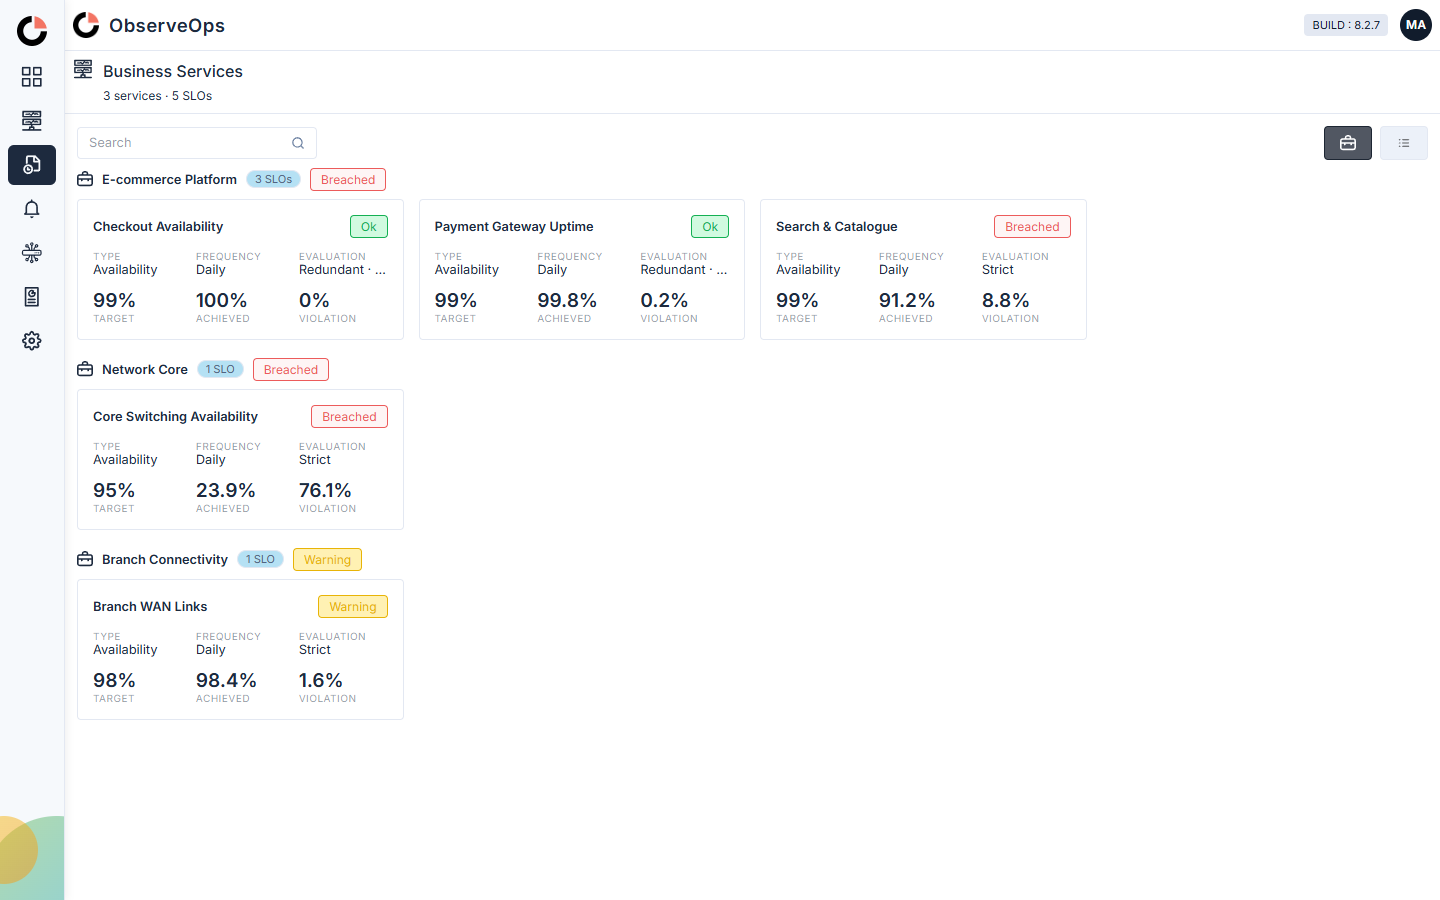
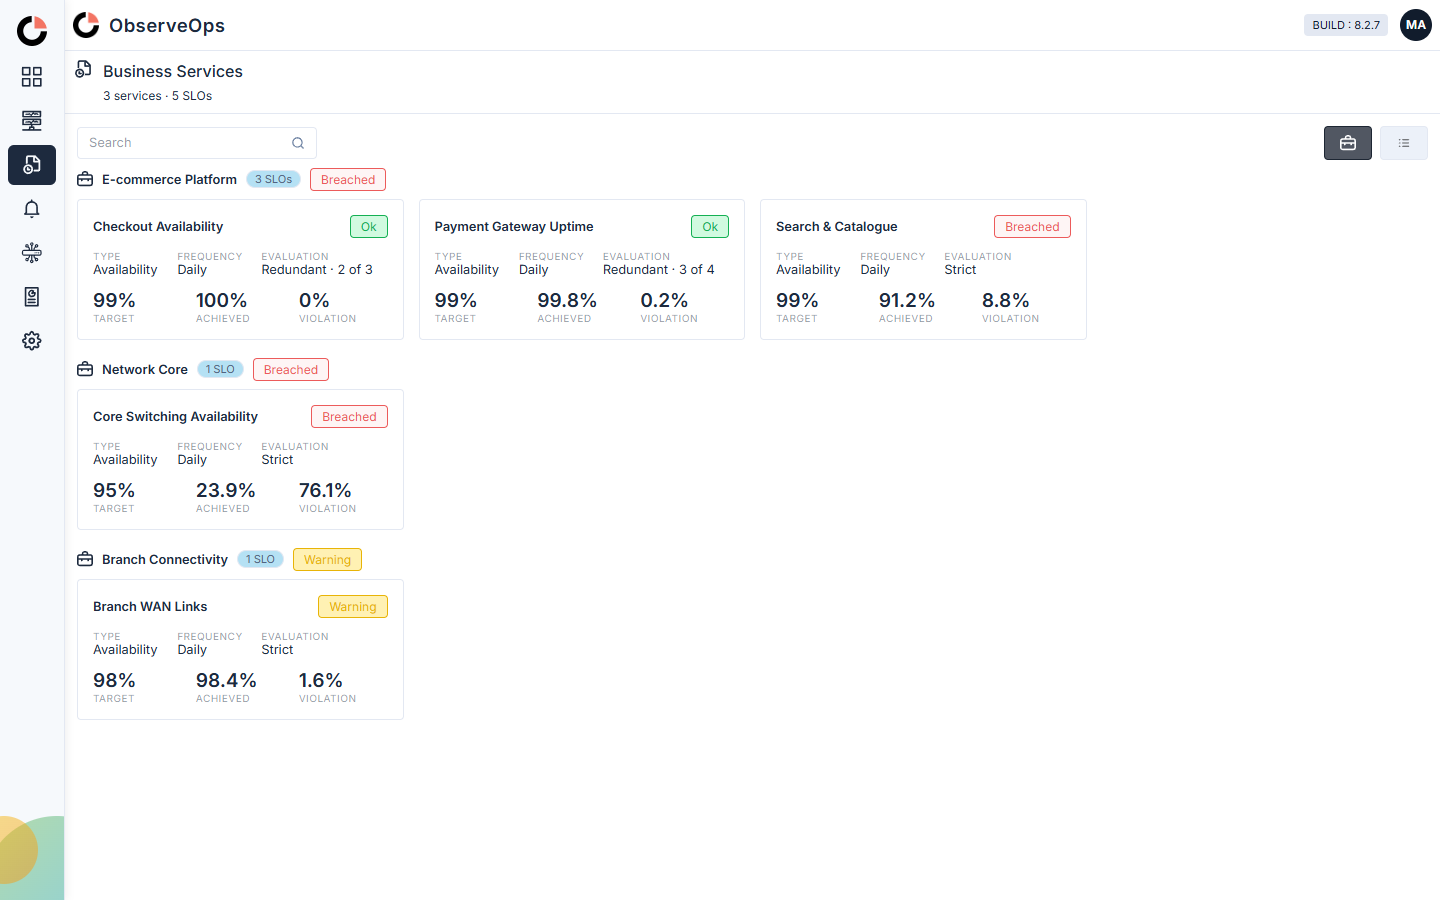
fix(slo): close the re-review's three residuals
The eval slot showed 'Redundant · ...' — containing the overflow had
traded a visible defect for an invisible one, hiding the quorum the
column exists to state.

The duplicate Monitors icon was relocated, not removed: registry.js was
fixed while screen.js still hardcoded it for the page header, in the
same screenshot offered as proof.

Arrow keys in the quorum field were hijacked into a mode switch, because
the keydown handler lacked the #ev-quorum guard the click handler has.

Claude-Session: https://claude.ai/code/session_01FqGHHgiXHA6aMRMxv489J6

diff --git a/src/slo-profile/evaluationLogic.test.js b/src/slo-profile/evaluationLogic.test.js
@@ -159,4 +159,34 @@ describe('the evaluation logic control', () => {
     input.dispatchEvent(new MouseEvent('click', { bubbles: true }))
     expect(selected().dataset.mode).toBe('strict')
   })
+
+  // The click handler on the row already guards `#ev-quorum`; the keydown handler added for arrow
+  // traversal did not. `keydown` is composed and bubbles out of obs-input's shadow root, so a
+  // keyboard user stepping the number with ArrowUp/ArrowDown inside the field got the event
+  // intercepted, preventDefault()-ed (killing the native step), and routed into moveTo() — which
+  // switches the mode and moves focus away, hiding the quorum field out from under them. Dispatch
+  // from `#ev-quorum` itself (bubbling, as a real shadow-DOM event would) — the existing arrow
+  // tests above all dispatch on the row itself, which is why none of them caught this.
+  it('does not hijack arrow keys pressed inside the quorum input', () => {
+    const input = host.querySelector('#ev-quorum')
+    const strict = host.querySelector('[data-mode="strict"]')
+    // obs-input is an unregistered custom element in this jsdom suite (main.js registers the DS
+    // once, which unit tests don't import), so it carries no native focus behaviour of its own —
+    // `input.focus()` is not a reliable oracle here. What the bug actually does is move focus onto
+    // the OTHER row via `row(next).focus()`, which — unlike obs-input — is a real tabindex'd div
+    // and does become `document.activeElement` in jsdom. Assert against that: focus must stay off
+    // the strict row, and `document.activeElement` must not change, when the guard is doing its job.
+    input.focus()
+    const before = document.activeElement
+
+    input.dispatchEvent(new KeyboardEvent('keydown', { key: 'ArrowUp', bubbles: true }))
+    expect(selected().dataset.mode).toBe('redundant')
+    expect(document.activeElement).not.toBe(strict)
+    expect(document.activeElement).toBe(before)
+
+    input.dispatchEvent(new KeyboardEvent('keydown', { key: 'ArrowDown', bubbles: true }))
+    expect(selected().dataset.mode).toBe('redundant')
+    expect(document.activeElement).not.toBe(strict)
+    expect(document.activeElement).toBe(before)
+  })
 })

diff --git a/src/slo-list/screen.js b/src/slo-list/screen.js
@@ -7,7 +7,7 @@ import { pageHeaderHTML } from '../app/pageHeader.js'
 import { createStore } from './sloStore.js'
 import './sloList.css'
 
-export const meta = { pageHeader: { heading: 'SLO', icon: 'monitor' } }
+export const meta = { pageHeader: { heading: 'SLO', icon: 'slo' } }
 
 // obs-severity carries the level; `value` overrides its label so `critical` reads `Breached`.
 const STATUS_LABEL = { up: 'Ok', warning: 'Warning', critical: 'Breached' }
@@ -43,7 +43,7 @@ export const tileHTML = (slo) => {
 }
 
 const TEMPLATE = `
-  ${pageHeaderHTML({ heading: 'SLO', icon: 'monitor' })}
+  ${pageHeaderHTML({ heading: 'SLO', icon: 'slo' })}
   <div class="app-shell__body">
     <main class="app-shell__content" id="slo-content">
       <obs-toolbar data-role="content-toolbar">

diff --git a/src/slo-profile/evaluationLogic.js b/src/slo-profile/evaluationLogic.js
@@ -87,6 +87,7 @@ export function renderEvaluationLogic(host, { members }) {
       pick(mode)
     })
     row(mode).addEventListener('keydown', (e) => {
+      if (e.target.closest('#ev-quorum')) return
       if (e.key === 'Enter' || e.key === ' ') { e.preventDefault(); pick(mode) }
       else if (e.key === 'ArrowUp' || e.key === 'ArrowLeft') { e.preventDefault(); moveTo(-1, mode) }
       else if (e.key === 'ArrowDown' || e.key === 'ArrowRight') { e.preventDefault(); moveTo(1, mode) }

diff --git a/src/slo-list/sloList.css b/src/slo-list/sloList.css
@@ -39,6 +39,8 @@
 .slo-tile__slot,
 .slo-tile__num { flex: 1; min-width: 0; }
 
+.slo-tile__slot:last-child { flex: 1.8; }
+
 .slo-tile__lb,
 .slo-tile__num span {
   display: block;
